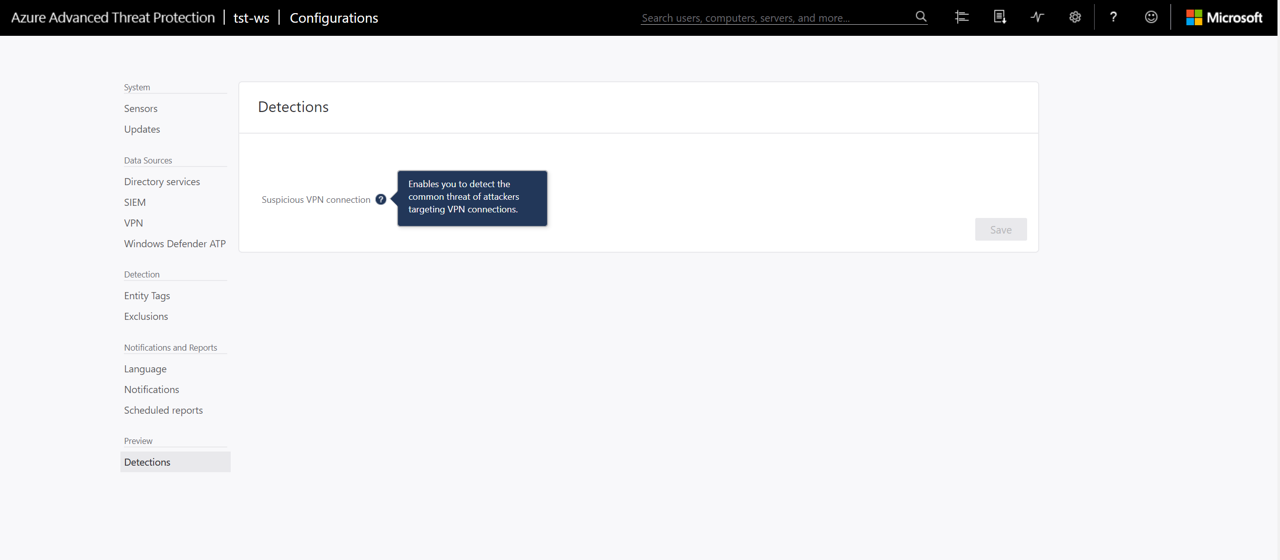
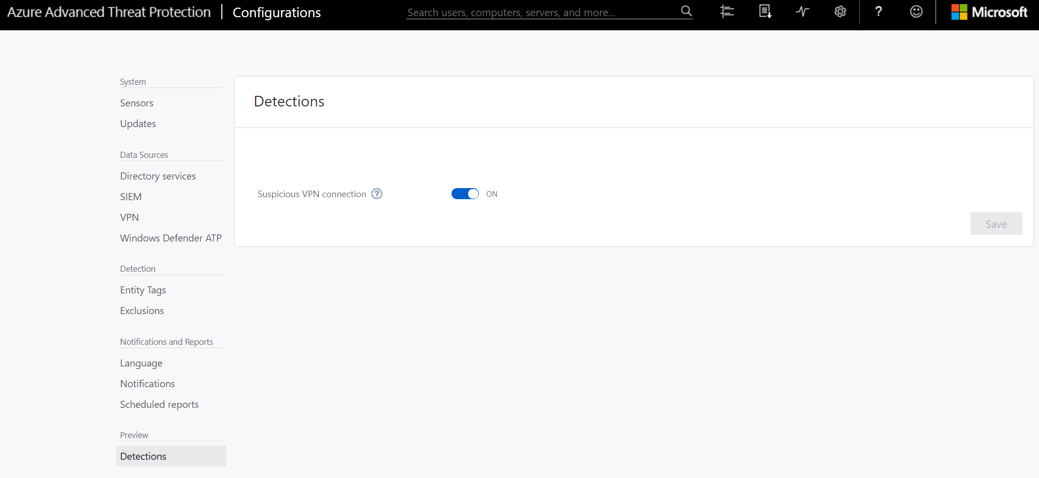
RN 2.35 - preview detections, suspicious vpn

diff --git a/ATPDocs/working-with-suspicious-activities.md b/ATPDocs/working-with-suspicious-activities.md
@@ -57,11 +57,13 @@ Each suspicious activity has the following information:
 
 ![Azure ATP suspicious activities timeline image](media/atp-sa-timeline.png)
 
-## Preview detections
+## Preview detections<a name="preview-detections"></a>
 
-The Azure ATP research team sees new attacks almost every day, and constantly works on implementing new detections for these attacks. Because Azure ATP is a cloud service, it's possible to release these new detections quickly to enable Azure ATP customers to benefit from new detections as soon as possible.
+The Azure ATP research team constantly works on implementing new detections for newly discovered attacks. Because Azure ATP is a cloud service, it's possible to release these new detections quickly to enable Azure ATP customers to benefit from new detections as soon as possible.
 
-These detections are tagged with a preview badge, to help you identify the new detections and know that they are new to the product. 
+These detections are tagged with a preview badge, to help you identify the new detections and know that they are new to the product. If you turn off preview detections, they will not be displayed in the Azure ATP console - not in the timeline or in entity profiles - and new alerts won’t be opened.
+
+![preview detection vpn](./media/preview-detection-vpn.png) 
 
 By default, preview detections are enabled in Azure ATP. 
 

diff --git a/ATPDocs/atp-whats-new.md b/ATPDocs/atp-whats-new.md
@@ -32,7 +32,15 @@ ms.suite: ems
 
 # What's new in Azure ATP 
 
+## Azure ATP release 2.35
 
+Released June 10, 2018
+ 
+- The Azure ATP research team constantly works on implementing new detections for newly discovered attacks. Because Azure ATP is a cloud service, it's possible to release these new detections quickly to enable Azure ATP customers to benefit from new detections as soon as possible. For more information about enabling and disabling preview detections, see [preview detections](working-with-suspicious-activities.md#preview-detections).
+ 
+- This release introduces a preview version of the Suspicious VPN detection. Azure ATP learns user VPN behavior, including the machines the users signed in to and the locations the users connect from, and alerts you when there is a deviation from the expected behavior. For more information, see [Suspicious VPN detection](suspicious-activity-guide.md#suspicious-vpn-detection).
+ 
+- This version includes fixes and improvements for multiple issues. 
 
 ## Azure ATP release 2.34
 

diff --git a/ATPDocs/suspicious-activity-guide.md b/ATPDocs/suspicious-activity-guide.md
@@ -7,7 +7,7 @@ keywords:
 author: rkarlin
 ms.author: rkarlin
 manager: mbaldwin
-ms.date: 6/7/2018
+ms.date: 6/10/2018
 ms.topic: get-started-article
 ms.prod:
 ms.service: azure-advanced-threat-protection
@@ -481,11 +481,12 @@ A suspicious service has been created on a domain controller in your organizatio
 
 - Implement less-privileged access on domain machines to allow only specific users the right to create new services.
 
-## Suspicious VPN connection - Preview
+## Suspicious VPN connection - Preview<a name="suspicious-vpn-detection"></a>
 
 **Description**
 
 Azure ATP learns the entity behavior for users VPN connections over a sliding period of one month. 
+
 The VPN-behavior model is based on the following activities: the machines the users logged in to and the locations the users connect from. 
 
 An alert is opened when there is a deviation from the user’s behavior based on machine learning algorithm.
